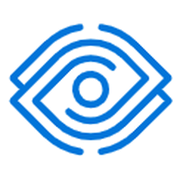
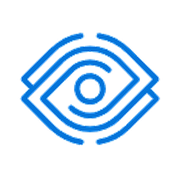
slack link added

diff --git a/src/components/layout/Footer.tsx b/src/components/layout/Footer.tsx
@@ -2,7 +2,7 @@ import Link from "next/link";
 import { Container } from "@/components/ui/Container";
 import { Logo } from "@/components/ui/Logo";
 import { FOOTER_SERVICES, NAV_LINKS, SITE } from "@/lib/constants";
-import { Github, Linkedin } from "lucide-react";
+import { Github, Linkedin, Slack } from "lucide-react";
 
 export function Footer() {
   return (
@@ -106,6 +106,15 @@ export function Footer() {
                 aria-label="GitHub"
               >
                 <Github className="h-4 w-4" />
+              </a>
+              <a
+                href={SITE.slack}
+                target="_blank"
+                rel="noreferrer"
+                className="inline-flex rounded-lg p-2 text-muted-foreground transition-colors hover:text-foreground hover:bg-muted/50 focus-visible:outline-none focus-visible:ring-2 focus-visible:ring-accent"
+                aria-label="Slack"
+              >
+                <Slack className="h-4 w-4" />
               </a>
             </div>
           </div>

diff --git a/src/lib/constants.ts b/src/lib/constants.ts
@@ -5,6 +5,7 @@ export const SITE = {
   email: "hello@zlooyear.com",
   linkedin: "https://www.linkedin.com/company/zlooyear",
   github: "https://github.com/zlooyear",
+  slack: "https://join.slack.com/t/zlooyear/shared_invite/placeholder",
   tagline: "Adapting to the Technology of the 2100s.",
   motto: "Build for today. Adapt for what comes next.",
   description:

diff --git a/src/components/ui/Logo.tsx b/src/components/ui/Logo.tsx
@@ -11,7 +11,7 @@ export function Logo({ className, priority = false }: LogoProps) {
   return (
     <span className={cn("inline-flex items-center gap-2.5", className)}>
       <Image
-        src="/brand/logo-mark.png"
+        src="/brand/logo-mark.png?v=2"
         alt=""
         width={36}
         height={36}

diff --git a/src/components/ui/LogoMark.tsx b/src/components/ui/LogoMark.tsx
@@ -10,7 +10,7 @@ type LogoMarkProps = {
 export function LogoMark({ className, size = 32, priority = false }: LogoMarkProps) {
   return (
     <Image
-      src="/brand/logo-mark.png"
+      src="/brand/logo-mark.png?v=2"
       alt=""
       width={size}
       height={size}
